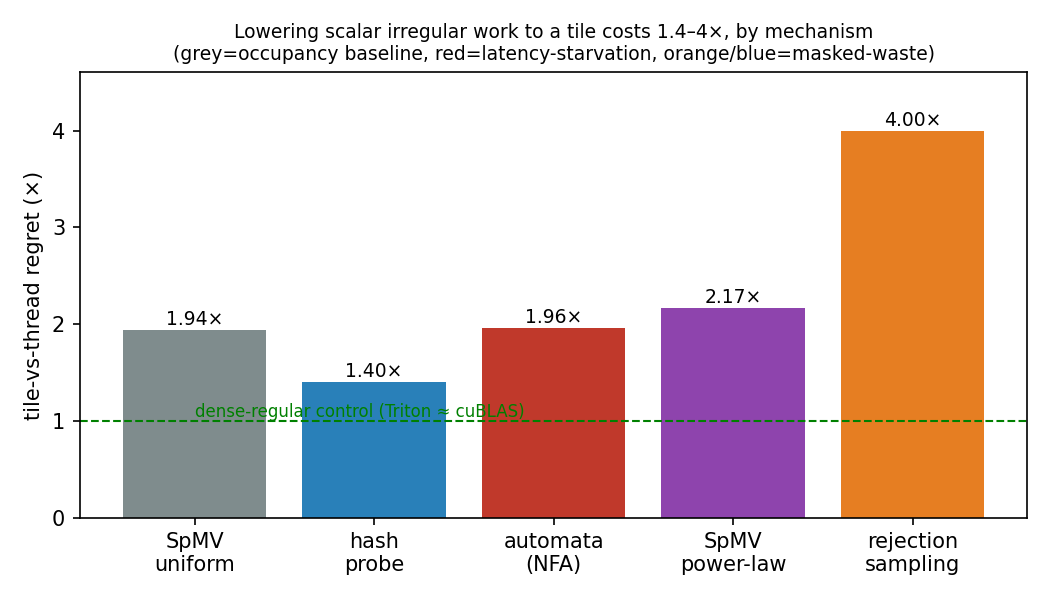
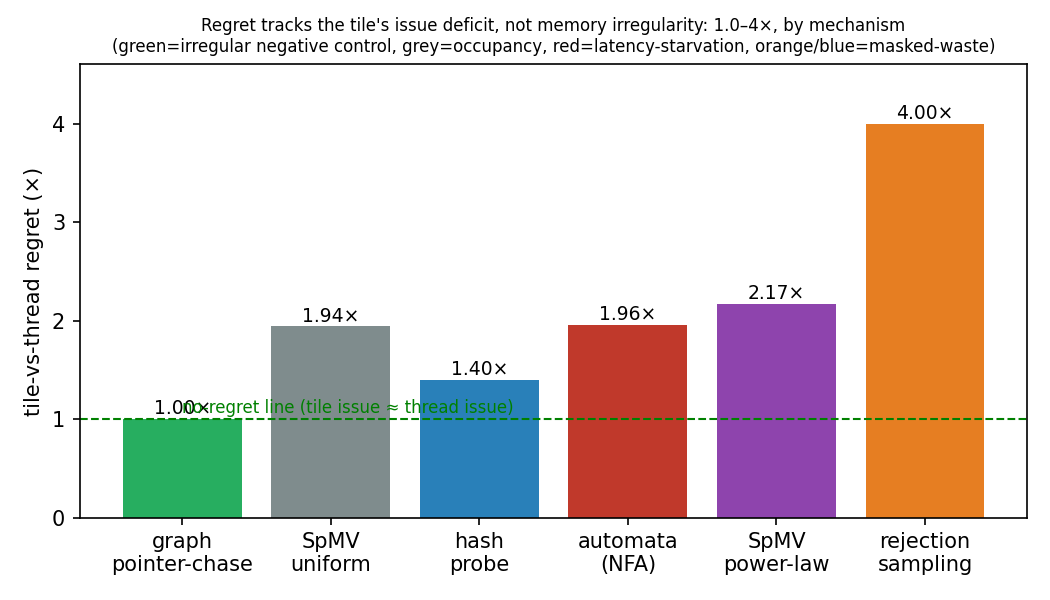
feat(landmark): witness #4 graph pointer-chase = true negative control (regret 1.00x)
1M random walkers x 64 fixed steps on a power-law CSR graph (deg cv=3.79).
Pure dependent-load pointer-chase: irregular memory + data-dependent addresses,
ZERO control-flow divergence. Tile vs thread vs exact numpy oracle (bit-for-bit).

regret = 1.00x. Nsight: tile and thread IDENTICAL on every axis -- issue_active
5.42% vs 5.43%, occupancy 72.11% vs 72.11%, tipi 32 vs 32. Confirms the refined
predictor: regret = the tile's issue deficit RELATIVE TO thread, created by
scalar control, not by dependent loads or memory irregularity. A better negative
control than dense-regular/cuBLAS or SpMV-uniform: a real irregular workload
sitting exactly on the no-regret line.

Added to regret_law.csv (green, leftmost) + figure retitled.

diff --git a/experiments/cure/landmark_bfs.py b/experiments/cure/landmark_bfs.py
@@ -1,0 +1,221 @@
+"""LANDMARK P1 — generality witness #4: graph pointer-chase (bounded random walk).
+
+THE canonical dependent-load / MLP-bound pattern on a REAL irregular graph (GAP/SuiteSparse-class),
+and a sharp re-test of the MLP hypothesis the hash-probe witness diluted. Each of N walkers takes a
+FIXED number of steps (no trip divergence) but each step's gather address DEPENDS on the previous
+load (pointer chase): v -> neighbor[ rowptr[v] + h(v,step) % deg(v) ]. So this isolates the pure
+dependent-load face: irregular MEMORY (variable degree, scattered colidx), data-dependent addresses,
+but ZERO control-flow trip divergence. If the lock-step tile's gather already gives full intra-warp
+MLP (the hash-probe finding), regret stays modest (~baseline); if pointer-chasing starves the tile,
+regret is large. Either outcome is a clean, oracle-gated data point.
+
+  TILE (Triton, lane-packed): one walker/lane, BLOCK lanes lockstep over the fixed step count.
+  THREAD (CUDA, one thread/walker): independent dependent-load chains -> intra-warp latency hiding.
+  ORACLE (numpy, exact integer arithmetic): the final vertex per walker.
+The step hash uses only multiply+add+mask so draws are identical across numpy/CUDA/Triton 64-bit
+two's-complement wrap. Oracle-gated (exact). Writes paper2/data/landmark/bfs_rtx4070.csv.
+
+Usage:  .venv/bin/python experiments/cure/landmark_bfs.py
+        .venv/bin/python experiments/cure/landmark_bfs.py profile <tile|thread>
+"""
+
+from __future__ import annotations
+
+import ctypes
+import os
+import statistics
+import subprocess
+import sys
+import tempfile
+from pathlib import Path
+
+import numpy as np
+import torch
+import triton
+import triton.language as tl
+
+# odd mixing constants, both < 2^31 so int32 literals never overflow in Triton; products are
+# forced to int64 via .to(tl.int64) on the tensors (matches CUDA long long / numpy int64 wrap).
+A, B, SEED = 1640531527, 1013904223, 12345
+M24 = 0xFFFFFF
+NV = 1 << 20  # 1M vertices
+AVG_DEG = 16  # power-law degrees, same total edges as uniform AVG_DEG
+N_WALK = 1 << 20  # 1M independent walkers
+STEPS = 64  # fixed steps -> NO trip divergence (isolates dependent-load MLP)
+WARMUP, SAMPLES = 3, 9
+BLOCK = int(os.environ.get("BFS_BLOCK", "32"))
+NUM_WARPS = max(1, BLOCK // 32)
+
+
+def build_graph(seed: int):
+    """Power-law-degree CSR graph; colidx scattered (irregular gather)."""
+    rng = np.random.default_rng(seed)
+    raw = (rng.pareto(1.5, size=NV) + 1).astype(np.int64)
+    raw = np.clip(raw, 1, 4096)
+    scale = (AVG_DEG * NV) / raw.sum()
+    deg = np.clip((raw * scale).round().astype(np.int64), 1, 4096)
+    rowptr = np.zeros(NV + 1, dtype=np.int32)
+    rowptr[1:] = np.cumsum(deg)
+    total = int(rowptr[-1])
+    colidx = rng.integers(0, NV, size=total, dtype=np.int32)
+    return rowptr, colidx, deg
+
+
+def oracle(rowptr, colidx):
+    """Exact final vertex per walker, vectorized 64-bit-wrap arithmetic (matches kernels).
+
+    numpy int64 multiply/add wrap two's-complement = CUDA `long long`; `& M24` extracts the same
+    low 24 bits as CUDA `(unsigned long long)m & 0xFFFFFF`, so no explicit 64-bit mask is needed.
+    """
+    rp = rowptr.astype(np.int64)
+    ci = colidx.astype(np.int64)
+    v = np.arange(N_WALK, dtype=np.int64) % NV
+    for step in range(STEPS):
+        lo = rp[v]
+        deg = rp[v + 1] - lo
+        h = (v * A + step * B + SEED) & M24
+        nb = lo + (h % deg)
+        v = ci[nb]
+    return v
+
+
[email redacted]
+def _walk_tile(rowptr, colidx, n, out, STEPS: tl.constexpr, BLOCK: tl.constexpr):
+    pid = tl.program_id(0)
+    w = pid * BLOCK + tl.arange(0, BLOCK)
+    valid = w < n
+    v = w % (1 << 20)  # NV, start vertex
+    for step in range(STEPS):  # constexpr range, unrolled
+        lo = tl.load(rowptr + v, mask=valid, other=0)
+        hi = tl.load(rowptr + v + 1, mask=valid, other=1)
+        deg = hi - lo
+        h = (v.to(tl.int64) * 1640531527 + step * 1013904223 + 12345) & 0xFFFFFF
+        nb = lo + (h % deg.to(tl.int64)).to(tl.int32)
+        v = tl.load(colidx + nb, mask=valid, other=0)
+    tl.store(out + w, v, mask=valid)
+
+
+def _compile_thread():
+    src = """
+extern "C" __global__ void walk_kernel(
+    const int* rowptr, const int* colidx, int n, int steps, int* out) {
+  int w = blockIdx.x * blockDim.x + threadIdx.x;  // one thread == one walker
+  if (w >= n) return;
+  int v = w % (1 << 20);
+  for (int step = 0; step < steps; step++) {
+    int lo = rowptr[v];
+    int deg = rowptr[v + 1] - lo;
+    long long m = (long long)v * 1640531527LL + (long long)step * 1013904223LL + 12345LL;
+    unsigned long long h = (unsigned long long)m & 0xFFFFFFULL;
+    int nb = lo + (int)(h % (unsigned long long)deg);
+    v = colidx[nb];  // dependent load (pointer chase)
+  }
+  out[w] = v;
+}
+extern "C" float wk_launch(const int* rowptr, const int* colidx, int n, int steps, int* out) {
+  int th = 256, bl = (n + th - 1) / th;
+  cudaEvent_t s, e; cudaEventCreate(&s); cudaEventCreate(&e);
+  cudaEventRecord(s);
+  walk_kernel<<<bl, th>>>(rowptr, colidx, n, steps, out);
+  cudaEventRecord(e); cudaEventSynchronize(e);
+  float ms = 0; cudaEventElapsedTime(&ms, s, e); return ms;
+}
+"""
+    cache = Path.home() / ".cache" / "landmark_bfs"
+    cache.mkdir(parents=True, exist_ok=True)
+    d = Path(tempfile.mkdtemp(prefix="wk_", dir=str(cache)))
+    cu, so = d / "wk.cu", d / "wk.so"
+    cu.write_text(src)
+    nvcc = "/usr/local/cuda/bin/nvcc" if Path("/usr/local/cuda/bin/nvcc").exists() else "nvcc"
+    subprocess.run(
+        [nvcc, "-O3", "-shared", "-Xcompiler", "-fPIC", "-arch=sm_89", "-o", str(so), str(cu)],
+        check=True,
+        capture_output=True,
+        text=True,
+    )
+    lib = ctypes.CDLL(str(so))
+    lib.wk_launch.restype = ctypes.c_float
+    lib.wk_launch.argtypes = [
+        ctypes.c_void_p,
+        ctypes.c_void_p,
+        ctypes.c_int,
+        ctypes.c_int,
+        ctypes.c_void_p,
+    ]
+    return lib
+
+
+_THR = None
+
+
+def run_tile(rp, ci):
+    out = torch.zeros(N_WALK, dtype=torch.int32, device="cuda")
+    ev0, ev1 = torch.cuda.Event(enable_timing=True), torch.cuda.Event(enable_timing=True)
+    ev0.record()
+    _walk_tile[(triton.cdiv(N_WALK, BLOCK),)](
+        rp, ci, N_WALK, out, STEPS=STEPS, BLOCK=BLOCK, num_warps=NUM_WARPS
+    )
+    ev1.record()
+    torch.cuda.synchronize()
+    return out.cpu().numpy(), float(ev0.elapsed_time(ev1))
+
+
+def run_thread(rp, ci):
+    global _THR
+    if _THR is None:
+        _THR = _compile_thread()
+    out = torch.zeros(N_WALK, dtype=torch.int32, device="cuda")
+    ms = _THR.wk_launch(rp.data_ptr(), ci.data_ptr(), N_WALK, STEPS, out.data_ptr())
+    torch.cuda.synchronize()
+    return out.cpu().numpy(), float(ms)
+
+
+def main() -> int:
+    if not torch.cuda.is_available():
+        print("SKIP: no CUDA")
+        return 0
+    rp_h, ci_h, deg = build_graph(0)
+    d = torch.device("cuda")
+    rp = torch.as_tensor(rp_h, device=d)
+    ci = torch.as_tensor(ci_h, device=d)
+    if len(sys.argv) >= 3 and sys.argv[1] == "profile":
+        (run_tile if sys.argv[2] == "tile" else run_thread)(rp, ci)
+        return 0
+
+    ref = oracle(rp_h, ci_h)
+    for name, fn in (("tile", run_tile), ("thread", run_thread)):
+        got, _ = fn(rp, ci)
+        if not np.array_equal(got, ref):
+            print(f"ORACLE FAIL {name}: {int((got != ref).sum())}/{N_WALK} mismatch")
+            return 1
+    cv = float(deg.std() / deg.mean())
+    print(
+        f"graph pointer-chase ({N_WALK} walkers x {STEPS} steps, deg cv={cv:.2f}, "
+        f"dependent-load MLP, NO trip divergence):"
+    )
+
+    def med(fn):
+        for _ in range(WARMUP):
+            fn(rp, ci)
+        return statistics.median([fn(rp, ci)[1] for _ in range(SAMPLES)])
+
+    tile_ms, thr_ms = med(run_tile), med(run_thread)
+    tile_me = N_WALK * STEPS / (tile_ms * 1e-3) / 1e6
+    thr_me = N_WALK * STEPS / (thr_ms * 1e-3) / 1e6
+    regret = thr_me / tile_me
+    print(f"  TILE (Triton)  {tile_me:8.1f} Mstep/s")
+    print(f"  THREAD (CUDA)  {thr_me:8.1f} Mstep/s")
+    print(f"  regret (thread/tile) = {regret:.2f}x  (pure dependent-load MLP, real graph)")
+    outp = Path("paper2/data/landmark/bfs_rtx4070.csv")
+    outp.parent.mkdir(parents=True, exist_ok=True)
+    with outp.open("w") as f:
+        f.write("workload,n_walk,steps,deg_cv,tile_mstep_s,thread_mstep_s,regret,gpu\n")
+        f.write(
+            f"pointer_chase,{N_WALK},{STEPS},{cv:.3f},{tile_me:.2f},{thr_me:.2f},{regret:.3f},RTX4070\n"
+        )
+    print(f"wrote {outp}")
+    return 0
+
+
+if __name__ == "__main__":
+    sys.exit(main())

diff --git a/paper2/figures.py b/paper2/figures.py
@@ -245,8 +245,16 @@ def fig_cure() -> None:
 def fig_regret_law() -> None:
     """(g) Generality: tile-vs-thread regret across irregular workloads, by mechanism. landmark."""
     rows = _read("landmark/regret_law.csv")
-    order = ["spmv_uniform", "hashprobe", "automata_nfa", "spmv_powerlaw", "rejection"]
+    order = [
+        "pointer_chase",
+        "spmv_uniform",
+        "hashprobe",
+        "automata_nfa",
+        "spmv_powerlaw",
+        "rejection",
+    ]
     nice = {
+        "pointer_chase": "graph\npointer-chase",
         "spmv_uniform": "SpMV\nuniform",
         "hashprobe": "hash\nprobe",
         "automata_nfa": "automata\n(NFA)",
@@ -254,6 +262,7 @@ def fig_regret_law() -> None:
         "rejection": "rejection\nsampling",
     }
     mech_color = {
+        "negative_control_latency_equal": "#27ae60",
         "baseline_occupancy_50v94": "#7f8c8d",
         "masked_waste_gather_diluted": "#2980b9",
         "latency_starvation": "#c0392b",
@@ -268,13 +277,14 @@ def fig_regret_law() -> None:
     for b, v in zip(ax.bar(labels, vals, color=colors), vals, strict=True):
         ax.text(b.get_x() + b.get_width() / 2, v + 0.05, f"{v:.2f}×", ha="center", fontsize=9)
     ax.axhline(1.0, color="green", ls="--", lw=1)
-    ax.text(0, 1.04, "dense-regular control (Triton ≈ cuBLAS)", fontsize=8, color="green")
+    ax.text(0, 1.06, "no-regret line (tile issue ≈ thread issue)", fontsize=8, color="green")
     ax.set_ylabel("tile-vs-thread regret (×)")
     ax.set_ylim(0, max(vals) * 1.15)
     ax.set_title(
-        "Lowering scalar irregular work to a tile costs 1.4–4×, by mechanism\n"
-        "(grey=occupancy baseline, red=latency-starvation, orange/blue=masked-waste)",
-        fontsize=9,
+        "Regret tracks the tile's issue deficit, not memory irregularity: 1.0–4×, by mechanism\n"
+        "(green=irregular negative control, grey=occupancy, red=latency-starvation, "
+        "orange/blue=masked-waste)",
+        fontsize=8,
     )
     fig.tight_layout()
     fig.savefig(OUT / "fig_regret_law.png", dpi=150)

diff --git a/docs/CURE_PROGRESS.md b/docs/CURE_PROGRESS.md
@@ -193,6 +193,23 @@ Niche CONFIRMED empty; novelty holds on two distinctions. Key outcomes folded in
 7. **Write-up paper 2** (CGO/CC framing) + artifact, continuously as results land.
 
 ## Findings log (append-only, newest first)
+- 2026-06-28: **LANDMARK P1 witness #4 (graph pointer-chase) — THE TRUE NEGATIVE CONTROL, regret 1.00×.**
+  `experiments/cure/landmark_bfs.py`: 1M independent random walkers × 64 FIXED steps on a power-law CSR
+  graph (deg cv=3.79). Each step is a dependent gather (pointer-chase): the next address depends on the
+  previous load — the canonical MLP-bound / latency-bound pattern — with irregular memory (scattered
+  colidx, variable degree) but ZERO control-flow trip divergence (fixed step count). Tile (Triton, one
+  walker/lane) vs thread (CUDA via nvcc/ctypes) vs exact numpy oracle (deterministic hash, both
+  oracle-matched bit-for-bit). **regret = 1.00×** (tile 12098 vs thread 12157 Mstep/s). Nsight is the
+  punchline — tile and thread are IDENTICAL on every axis: issue_active **5.42% vs 5.43%**, occupancy
+  **72.11% vs 72.11%**, thread_inst/inst **32 vs 32**. ⇒ DECISIVE confirmation of the refined predictor:
+  **regret = the tile's issue-activity DEFICIT RELATIVE TO thread**, and that deficit is created by
+  SCALAR CONTROL, not by dependent loads or memory irregularity. Pointer-chase starves issue *equally*
+  on both (latency hidden by occupancy identically) → paradigm makes no difference → regret 1. Automata's
+  regret (1.96×) came specifically because scalar ffs/while recurrence starves the TILE's issue (9.9%) far
+  below thread's (41%). This is a *better* negative control than dense-regular (cuBLAS) and than
+  SpMV-uniform (whose 1.94× was a bandwidth/occupancy baseline, not latency) — an honest IRREGULAR
+  workload sitting exactly on the no-regret line. Added to `regret_law.csv` (leftmost, green) + figure
+  retitled "Regret tracks the tile's issue deficit, not memory irregularity". `bfs_rtx4070.csv`.
 - 2026-06-28: **LANDMARK regret-law SYNTHESIS — the multi-component law, assembled across 5 witnesses.**
   `paper2/data/landmark/regret_law.csv` + `fig_regret_law()` in `paper2/figures.py`. Five oracle-gated
   tile-vs-thread witnesses, ordered by mechanism, each Nsight-attributed: